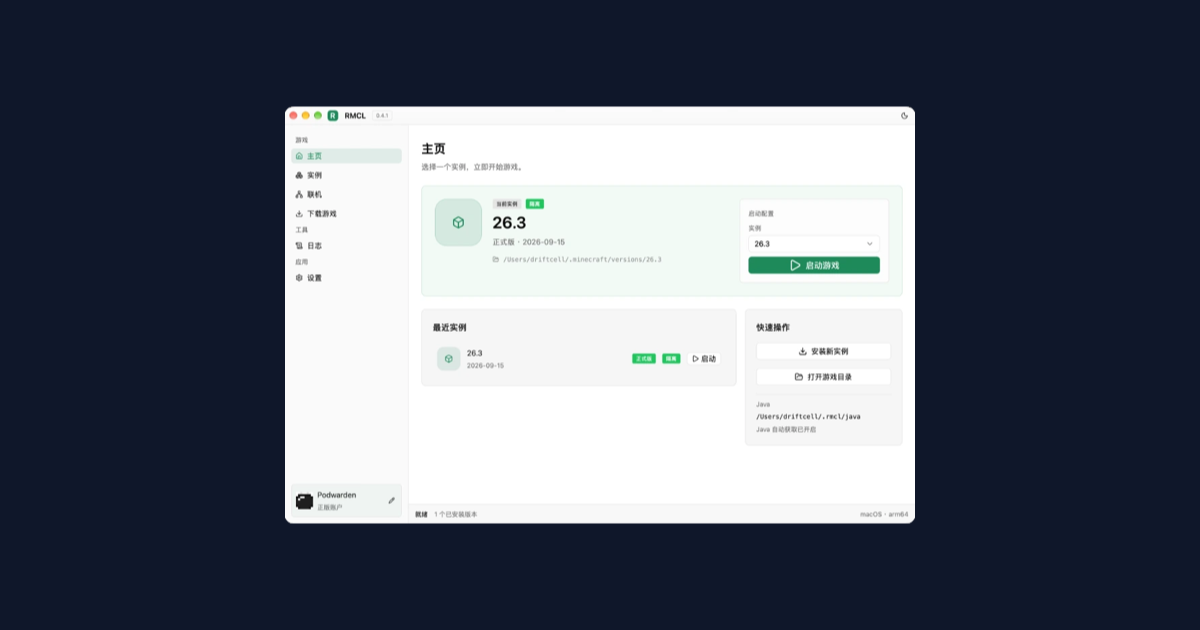
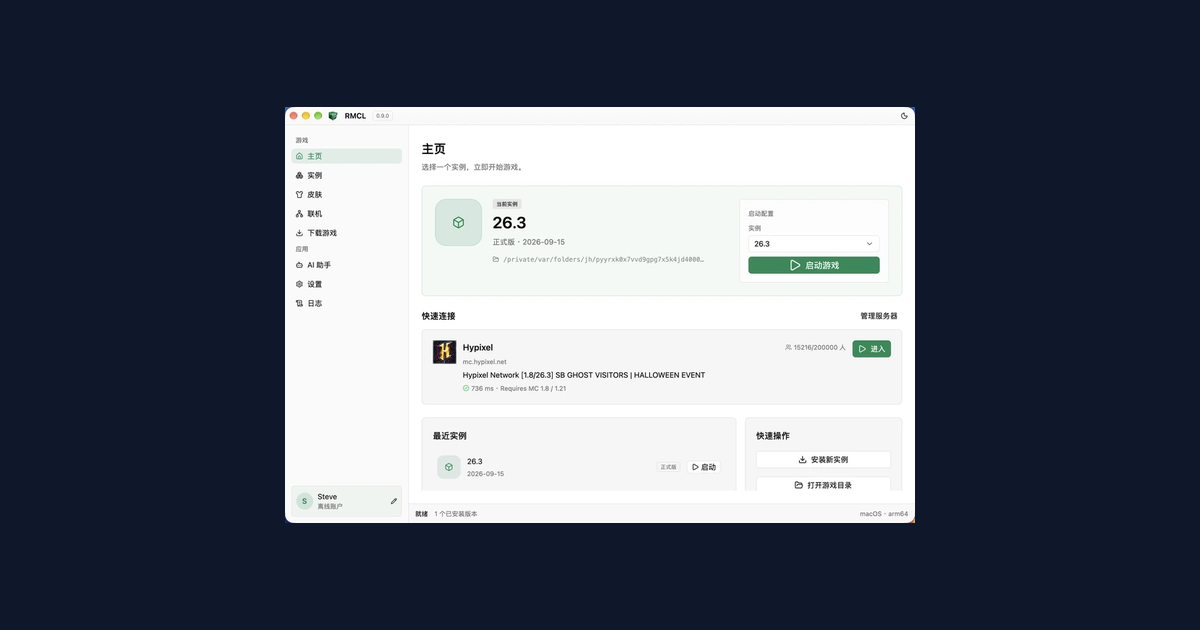
docs(web): add theme-aware application screenshots (#106)

diff --git a/web/src/data/rmcl-spec.ts b/web/src/data/rmcl-spec.ts
@@ -1,7 +1,11 @@
-import downloadsShotUrl from "../../public/screenshots/downloads.webp";
-import homeShotUrl from "../../public/screenshots/home.webp";
-import instancesShotUrl from "../../public/screenshots/instances.webp";
-import serversShotUrl from "../../public/screenshots/servers.webp";
+import downloadsDarkShotUrl from "../../public/screenshots/downloads-dark.webp";
+import downloadsLightShotUrl from "../../public/screenshots/downloads-light.webp";
+import homeDarkShotUrl from "../../public/screenshots/home-dark.webp";
+import homeLightShotUrl from "../../public/screenshots/home-light.webp";
+import instancesDarkShotUrl from "../../public/screenshots/instances-dark.webp";
+import instancesLightShotUrl from "../../public/screenshots/instances-light.webp";
+import serversDarkShotUrl from "../../public/screenshots/servers-dark.webp";
+import serversLightShotUrl from "../../public/screenshots/servers-light.webp";
 
 export type AccentKey = "emerald" | "ocean" | "violet" | "amber" | "rose";
 export type ThemeMode = "light" | "dark";
@@ -204,7 +208,8 @@ export interface ChapterSpec {
   lead: string;
   pills: string[];
   screenshot?: {
-    url: string;
+    lightUrl: string;
+    darkUrl: string;
     caption: string;
   };
   callouts: CalloutSpec[];
@@ -221,7 +226,8 @@ export const CHAPTERS: ChapterSpec[] = [
     lead: "自动检测并配好所需 Java，支持微软正版皮肤头像与离线账号随时切换，让你把时间留给游戏本身。",
     pills: ["自动准备 Java", "正版与离线双模", "最近实例直达"],
     screenshot: {
-      url: homeShotUrl,
+      lightUrl: homeLightShotUrl,
+      darkUrl: homeDarkShotUrl,
       caption: "主页：一键启动当前实例，快捷切换账号与最近版本",
     },
     callouts: [
@@ -244,7 +250,8 @@ export const CHAPTERS: ChapterSpec[] = [
     lead: "点选 Vanilla、Fabric、Quilt、Forge 或 NeoForge 自动安装，每个实例拥有独立的存档、Mod 与光影文件夹。",
     pills: ["5 大主流加载器", "默认版本隔离", "共用底层省空间"],
     screenshot: {
-      url: instancesShotUrl,
+      lightUrl: instancesLightShotUrl,
+      darkUrl: instancesDarkShotUrl,
       caption: "新建实例：选择游戏版本与加载器，稳定版优先推荐",
     },
     callouts: [
@@ -267,7 +274,8 @@ export const CHAPTERS: ChapterSpec[] = [
     lead: "内置精选服务器发现与个人收藏夹，实时查看在线人数与毫秒延迟，点击「进入」直接拉起游戏连入服务器。",
     pills: ["实时人数与延迟", "点击直连进服", "个人收藏自动刷新"],
     screenshot: {
-      url: serversShotUrl,
+      lightUrl: serversLightShotUrl,
+      darkUrl: serversDarkShotUrl,
       caption: "联机发现：未进游戏即可查看服务器状态，一键直达",
     },
     callouts: [
@@ -290,7 +298,8 @@ export const CHAPTERS: ChapterSpec[] = [
     lead: "涵盖 Mojang 官方 920+ 个正式版、快照与旧版；内置 Modrinth 模组、资源包与光影搜索，自动配齐所需前置。",
     pills: ["920+ 官方版本", "Modrinth 在线搜装", "前置 Mod 自动补齐"],
     screenshot: {
-      url: downloadsShotUrl,
+      lightUrl: downloadsLightShotUrl,
+      darkUrl: downloadsDarkShotUrl,
       caption: "下载游戏：按正式版、快照、旧版清晰筛选，一键安装",
     },
     callouts: [

diff --git a/web/src/ui/dom-controller.ts b/web/src/ui/dom-controller.ts
@@ -228,6 +228,18 @@ export class DomController {
           mode === "light" ? ACCENT_PALETTES[k].lightPrimary : ACCENT_PALETTES[k].darkPrimary;
       }
     }
+
+    this.updateScreenshotThemes(mode);
+  }
+
+  private updateScreenshotThemes(mode: ThemeMode): void {
+    const images = document.querySelectorAll<HTMLImageElement>(".shot-img, #lightbox-img");
+    for (const image of images) {
+      const url = mode === "dark" ? image.dataset.shotDark : image.dataset.shotLight;
+      if (url && image.getAttribute("src") !== url) {
+        image.src = url;
+      }
+    }
   }
 
   private buildTopNav(): void {
@@ -269,10 +281,12 @@ export class DomController {
 
       const screenshotHtml = ch.screenshot
         ? `
-          <figure class="shot-showcase" data-shot-url="${ch.screenshot.url}" data-shot-caption="${ch.screenshot.caption}">
+          <figure class="shot-showcase" data-shot-url-light="${ch.screenshot.lightUrl}" data-shot-url-dark="${ch.screenshot.darkUrl}" data-shot-caption="${ch.screenshot.caption}">
             <div class="shot-img-wrap">
               <img
-                src="${ch.screenshot.url}"
+                src="${ch.screenshot.lightUrl}"
+                data-shot-light="${ch.screenshot.lightUrl}"
+                data-shot-dark="${ch.screenshot.darkUrl}"
                 alt="${ch.screenshot.caption}"
                 class="shot-img"
                 width="934"
@@ -382,10 +396,13 @@ export class DomController {
     const figures = document.querySelectorAll<HTMLElement>(".shot-showcase");
     figures.forEach((fig) => {
       fig.addEventListener("click", () => {
-        const url = fig.dataset.shotUrl;
+        const lightUrl = fig.dataset.shotUrlLight;
+        const darkUrl = fig.dataset.shotUrlDark;
         const caption = fig.dataset.shotCaption;
-        if (!url) return;
-        this.lightboxImgEl.src = url;
+        if (!lightUrl || !darkUrl) return;
+        this.lightboxImgEl.dataset.shotLight = lightUrl;
+        this.lightboxImgEl.dataset.shotDark = darkUrl;
+        this.updateScreenshotThemes(this.currentMode);
         this.lightboxImgEl.alt = caption || "";
         this.lightboxCaptionEl.textContent = caption || "";
         this.lightboxEl.hidden = false;

diff --git a/README.md b/README.md
@@ -21,6 +21,47 @@
 
 RMCL 是一个独立的 Minecraft Java 版启动器，使用 Rust 和 GPUI Kit 构建原生桌面界面。支持正版与离线账户、Vanilla 和主流加载器、实例隔离、Mod 管理、服务器收藏、皮肤更换与自动更新。
 
+## 界面预览
+
+<table>
+  <tr>
+    <th align="left">主页与快速启动</th>
+    <th align="left">新建实例</th>
+  </tr>
+  <tr>
+    <td>
+      <picture>
+        <source media="(prefers-color-scheme: dark)" srcset="web/public/screenshots/home-dark.webp">
+        <img src="web/public/screenshots/home-light.webp" alt="RMCL 主页，展示当前实例、收藏服务器与快速启动" width="100%">
+      </picture>
+    </td>
+    <td>
+      <picture>
+        <source media="(prefers-color-scheme: dark)" srcset="web/public/screenshots/instances-dark.webp">
+        <img src="web/public/screenshots/instances-light.webp" alt="RMCL 新建实例页面，展示 Minecraft 版本与加载器选择" width="100%">
+      </picture>
+    </td>
+  </tr>
+  <tr>
+    <th align="left">联机发现</th>
+    <th align="left">下载游戏</th>
+  </tr>
+  <tr>
+    <td>
+      <picture>
+        <source media="(prefers-color-scheme: dark)" srcset="web/public/screenshots/servers-dark.webp">
+        <img src="web/public/screenshots/servers-light.webp" alt="RMCL 联机发现页面，展示服务器状态与一键进入" width="100%">
+      </picture>
+    </td>
+    <td>
+      <picture>
+        <source media="(prefers-color-scheme: dark)" srcset="web/public/screenshots/downloads-dark.webp">
+        <img src="web/public/screenshots/downloads-light.webp" alt="RMCL 下载游戏页面，展示官方版本列表与安装操作" width="100%">
+      </picture>
+    </td>
+  </tr>
+</table>
+
 ## 下载
 
 Release 构建由 GitHub Actions 生成，发布在 [Releases](https://github.com/driftcell/RMCL/releases)。

diff --git a/docs/engineering/WEB.md b/docs/engineering/WEB.md
@@ -2,7 +2,7 @@
 
 状态：已启用
 
-日期：2026-10-27
+日期：2026-10-29
 
 ## 边界
 
@@ -40,7 +40,11 @@ bun run serve    # 直接预览 index.html
 - 一个静态 `h1`，动态章节标题使用 `h2`，保持标题层级。
 - `<noscript>` 简介和下载入口，方便不执行 JavaScript 的访问者。
 
-`web/public/robots.txt` 指向 sitemap；`web/public/sitemap.xml` 目前只包含根页面。OG 图片由 `web/public/screenshots/home.webp` 生成，文件名稳定，不随构建 hash 变化。
+`web/public/robots.txt` 指向 sitemap；`web/public/sitemap.xml` 目前只包含根页面。OG 图片由 `web/public/screenshots/home-light.webp` 生成，文件名稳定，不随构建 hash 变化。
+
+## 应用截图
+
+主页、新建实例、联机和下载四页分别提供 `*-light.webp` 与 `*-dark.webp`，统一为 934×618。`DomController.applyThemeTokens` 同步切换章节图片和放大预览，素材尺寸一致，不随明暗模式改变布局。`README.md` 复用同一目录下的资源，通过 `prefers-color-scheme` 展示对应外观。
 
 ## 版本号
 
@@ -79,7 +83,7 @@ workflow 使用 `pages: write` 和 `id-token: write` 权限，不写入仓库内
 
 - 本地运行 `bun run check` 和 `bun run build`，确认 `web/dist/index.html` 使用相对资源路径。
 - 合并到 `main` 后检查 Pages workflow 的 build 和 deploy job 成功。
-- 打开 <https://driftcell.github.io/RMCL/> 检查首页、截图、字体和 Three.js 场景；真实浏览器不报 404 或模块加载错误。
+- 打开 <https://driftcell.github.io/RMCL/> 检查首页、字体和 Three.js 场景；切换深色与浅色时，章节截图和放大预览使用对应资源，真实浏览器不报 404 或模块加载错误。
 - PR 预览不部署到 Pages；PR 只运行 `web` CI job。
 
 ## 当前限制
